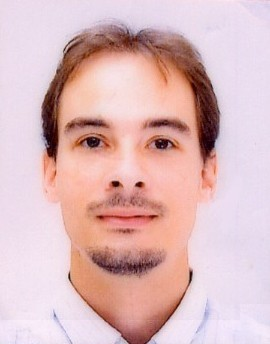
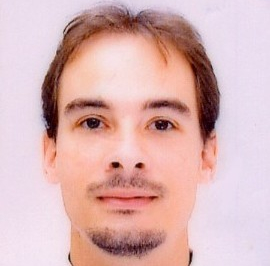
people

diff --git a/people.html b/people.html
@@ -18,29 +18,29 @@
         <div class="people">          
           <div class="people-box">
             <a href="demeny_hu.html">
-              <img src="pics/pic.png" alt="">
+              <img src="pics/demeny2.png" alt="">
               <h2>Dr. Demény Attila</h2>
             </a>
             <p>Lorem ipsum dolor sit amet, consectetur adipiscing elit. Mauris congue purus non risus tempor, nec venenatis tellus mattis.</p>
           </div>
           <div class="people-box">
             <a href="hatvani_hu.html">
-              <img src="pics/pic.png" alt="">
+              <img src="pics/hatvani.png" alt="">
               <h2>Dr. Hatvani István Gábor</h2>
             </a>
             <p>Lorem ipsum dolor sit amet, consectetur adipiscing elit. Mauris congue purus non risus tempor, nec venenatis tellus mattis.</p>
           </div>
           <div class="people-box">
-            <a href="">
-              <img src="pics/pic.png" alt="">            
-              <h2>Dr. Kern Zoltán</h2>
-            </a>            
+            <a href="czuppon_hu.html">
+              <img src="pics/czuppon.jpg" alt="">
+              <h2>Dr. Czuppon György</h2>
+            </a>           
             <p>Lorem ipsum dolor sit amet, consectetur adipiscing elit. Mauris congue purus non risus tempor, nec venenatis tellus mattis.</p>
           </div>
           <div class="people-box">
-            <a href="czuppon_hu.html">
-              <img src="pics/pic.png" alt="">
-              <h2>Dr. Czuppon György</h2>
+            <a href="worker-template_hu.html">
+              <img src="pics/avatar2.png" alt="">
+              <h2>Sablon</h2>
             </a>
             <p>Lorem ipsum dolor sit amet, consectetur adipiscing elit. Mauris congue purus non risus tempor, nec venenatis tellus mattis.</p>
           </div>

diff --git a/css/style.css b/css/style.css
@@ -101,6 +101,7 @@ main {
 .people-box {
 	flex: 1;
 	min-width: 250px;
+  max-width: 250px;
 	background: #fff;
 	border: 1px solid #ddd;
 	padding: 0 0 10px 0;
@@ -116,6 +117,13 @@ main {
 	padding: 10px 20px;
 	font-size: 14px;
 	line-height: 19px
+}
+.people-box img{
+  min-width: 150px;
+  max-width: 150px;
+  max-height: 150px;
+  margin: auto;
+  display: block
 }
 
 aside {
